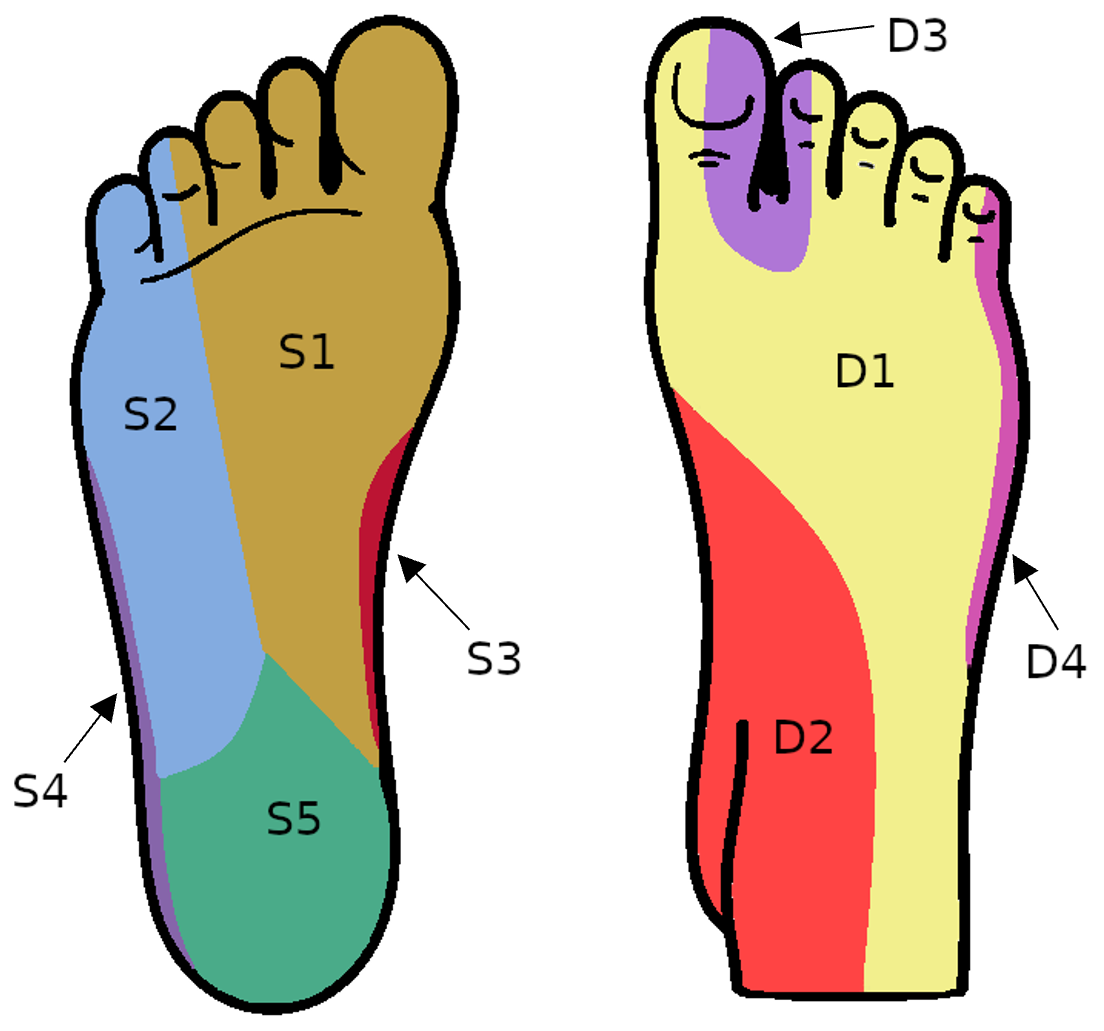
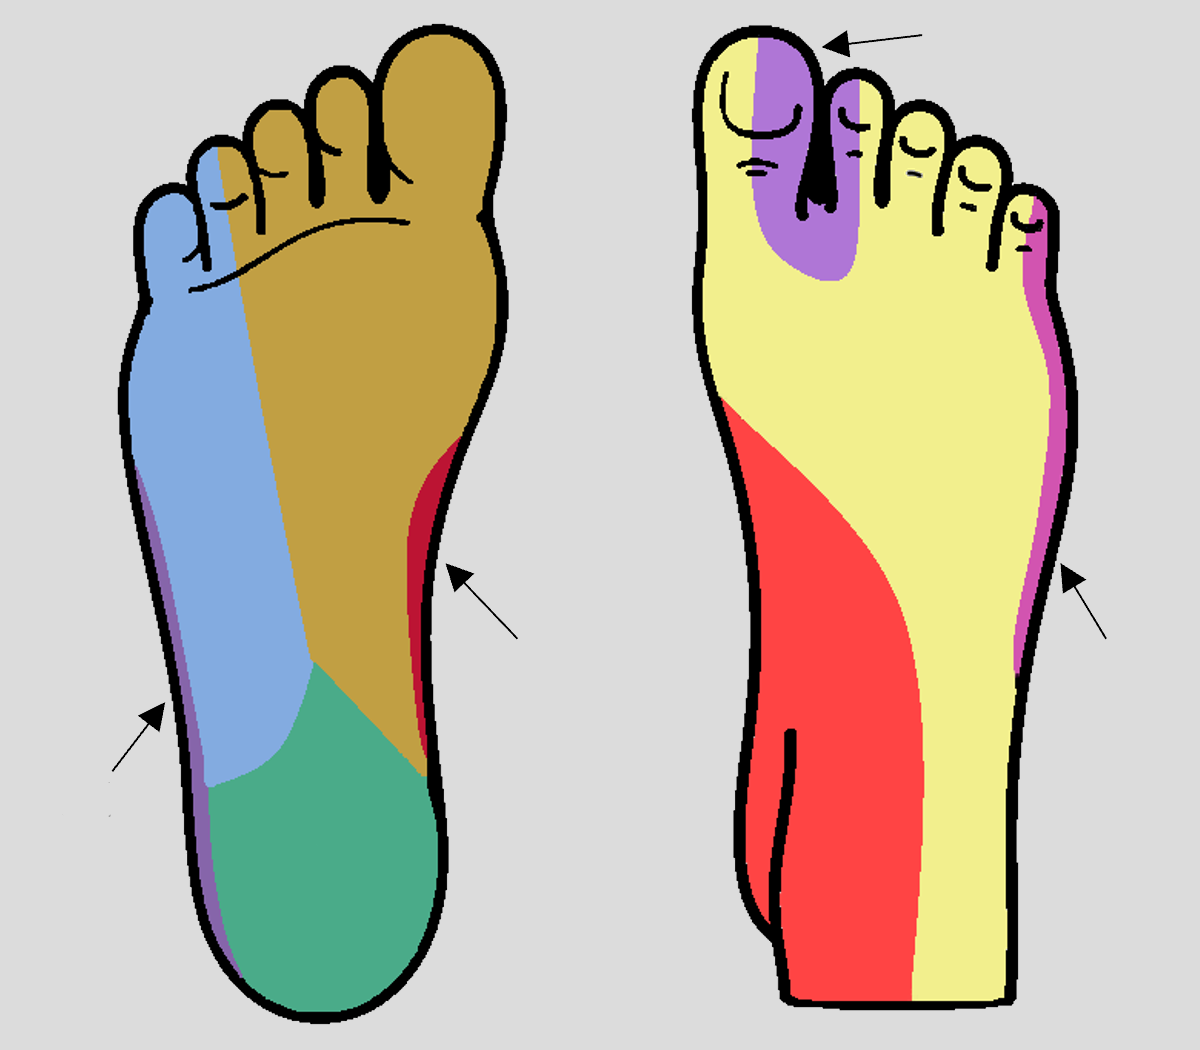
Aligned images for location_inputter.py and adjusted colors properly

diff --git a/widgets/location_inputter.py b/widgets/location_inputter.py
@@ -13,50 +13,53 @@ class LocationType(Enum):
     def image_name(self) -> str:
         if self == LocationType.FOOT:
             return "foot_dermatomes.png"
-        return "lower_leg_pictogram.png"
+        elif self == LocationType.LEG:
+            return "lower_leg_pictogram.png"
+        else:
+            raise ValueError(f"Invalid location type: {self}")
 
 
 class LocationInputter(tk.Canvas):
     FOOT_CHECKBOXES = {
-        "D1": {"x_rel": 0.786, "y_rel": 0.357, 'background': '#F1EF99'},
-        "D2": {"x_rel": 0.725, "y_rel": 0.710, 'background': '#EF5440'},
-        "D3": {"x_rel": 0.832, "y_rel": 0.035, 'background': '#FFFFFF'},
-        "D4": {"x_rel": 0.950, "y_rel": 0.632, 'background': '#FFFFFF'},
-        "S1": {"x_rel": 0.281, "y_rel": 0.340, 'background': '#BBA052'},
-        "S2": {"x_rel": 0.136, "y_rel": 0.398, 'background': '#8BAADB'},
-        "S3": {"x_rel": 0.444, "y_rel": 0.629, 'background': '#FFFFFF'},
-        "S4": {"x_rel": 0.045, "y_rel": 0.763, 'background': '#FFFFFF'},
-        "S5": {"x_rel": 0.259, "y_rel": 0.789, 'background': '#64A98B'}
+        "D1": {"x_rel": 0.760, "y_rel": 0.357, 'background': '#F2EF8D'},
+        "D2": {"x_rel": 0.705, "y_rel": 0.710, 'background': '#FF4444'},
+        "D3": {"x_rel": 0.823, "y_rel": 0.035, 'background': '#DCDCDC'},
+        "D4": {"x_rel": 0.940, "y_rel": 0.632, 'background': '#DCDCDC'},
+        "S1": {"x_rel": 0.281, "y_rel": 0.340, 'background': '#C19F43'},
+        "S2": {"x_rel": 0.155, "y_rel": 0.398, 'background': '#83ABE0'},
+        "S3": {"x_rel": 0.444, "y_rel": 0.629, 'background': '#DCDCDC'},
+        "S4": {"x_rel": 0.060, "y_rel": 0.763, 'background': '#DCDCDC'},
+        "S5": {"x_rel": 0.259, "y_rel": 0.789, 'background': '#4AAB89'}
     }
     LEG_CHECKBOXES = {
-        "Calf": {"x_rel": 0.20, "y_rel": 0.6, 'background': '#FFFFFF'},
-        "Shin": {"x_rel": 0.60, "y_rel": 0.6, 'background': '#FFFFFF'}
+        "Calf": {"x_rel": 0.32, "y_rel": 0.6, 'background': '#DCDCDC'},
+        "Shin": {"x_rel": 0.62, "y_rel": 0.6, 'background': '#DCDCDC'}
     }
     IMAGES_DIR = Path(__file__).parent.parent / 'images'
 
     def __init__(self, master, location_type: LocationType, location_vars: dict[str, tk.BooleanVar],
-                 scaling: float = 1.0):
+                 image_width: int = 600):
         super().__init__(master,
-                         highlightbackground='green', highlightthickness=2,
+                         # borderwidth=1, relief='solid'
                          )
         self.location_vars = location_vars
         self.style = ttk.Style()
-        # self.style.theme_use('clam')
 
-        # Select correct values based on type of inputter
+        # Select correct values based on the type of inputter
         checkbox_params = self.FOOT_CHECKBOXES if location_type == LocationType.FOOT else self.LEG_CHECKBOXES
         image_path = self.IMAGES_DIR / location_type.image_name
 
         # Load, scale, and display the image
-        self.image = Image.open(image_path)
-        scaled_width, scaled_height = int(self.image.width * scaling), int(self.image.height * scaling)
-        self.image = self.image.resize((scaled_width, scaled_height), Image.Resampling.LANCZOS)
+        image = Image.open(image_path)
+        scaling = image_width / image.width
+        scaled_height = round(scaling * image.height)
+        image = image.resize((image_width, scaled_height), Image.Resampling.LANCZOS)
 
-        self.photo = ImageTk.PhotoImage(self.image)
+        self.photo = ImageTk.PhotoImage(image)
         self.create_image(0, 0, image=self.photo, anchor="nw")
 
         # Set canvas size to match the image
-        self.config(width=self.image.width, height=self.image.height)
+        self.config(width=image.width, height=image.height)
 
         # Add all the Checkbuttons
         for name, params in checkbox_params.items():
@@ -64,10 +67,11 @@ class LocationInputter(tk.Canvas):
 
     def add_checkbutton(self, id, display_name, relx: float, rely: float, color: str):
         """Add a checkbutton at the specified coordinates
-        :param relx: The relative x position (0-1)
-        :param rely: The relative y position (0-1)
         :param id: The English name of the location (e.g. "Calf")
         :param display_name: The text that the checkbutton shows (e.g. "Calf" or "Schienbein")
+        :param relx: The relative x position (0-1)
+        :param rely: The relative y position (0-1)
+        :param color: The background color of the checkbutton
         """
         assert 0 <= relx <= 1
         assert 0 <= rely <= 1
@@ -88,10 +92,12 @@ class LocationInputter(tk.Canvas):
 if __name__ == "__main__":
     root = tk.Tk()
 
+    _ = lambda string: string
+
     location_vars = {loc: tk.BooleanVar(value=False) for loc in
                      ["D1", "D2", "D3", "D4", "S1", "S2", "S3", "S4", "S5", "Calf", "Shin", ]}
-    LocationInputter(root, LocationType.FOOT, location_vars, scaling=0.3).pack(side='left', padx=10, pady=10)
-    LocationInputter(root, LocationType.LEG, location_vars, scaling=0.3).pack(padx=10, pady=10)
+    LocationInputter(root, LocationType.FOOT, location_vars, image_width=400).pack(side='left', padx=10, pady=10)
+    LocationInputter(root, LocationType.LEG, location_vars, image_width=400).pack(padx=10, pady=10)
 
 
     def check_states():

diff --git a/widgets/evoked_sensations_frame.py b/widgets/evoked_sensations_frame.py
@@ -84,8 +84,8 @@ class _SingleSensationFrame(tk.Frame):
         location_label.grid(row=0, column=0, columnspan=2, padx=5, pady=(0, 5), sticky="w")
 
         # Make inputters for foot and leg
-        foot = LocationInputter(location_frame, LocationType.FOOT, self.location_vars, scaling=0.4)
-        leg = LocationInputter(location_frame, LocationType.LEG, self.location_vars, scaling=0.4)
+        foot = LocationInputter(location_frame, LocationType.FOOT, self.location_vars)
+        leg = LocationInputter(location_frame, LocationType.LEG, self.location_vars)
         foot.grid(row=1, column=0, padx=5, pady=5)
         leg.grid(row=1, column=1, padx=5, pady=5)
 
@@ -119,7 +119,7 @@ class EvokedSensationsFrame(tk.Frame):
         self.on_continue = on_continue
 
         # The canvas is just here to enable scrolling and only contains the main_frame
-        self.canvas = tk.Canvas(self)
+        self.canvas = tk.Canvas(self, highlightthickness=0)
         scrollbar = tk.Scrollbar(self, orient='vertical', command=self.canvas.yview)
 
         scrollbar.grid(row=0, column=1, sticky='ns')

diff --git a/styling/app_style.py b/styling/app_style.py
@@ -5,7 +5,7 @@ from tkinter import ttk, font
 
 
 class AppStyle(ttk.Style):
-    """Singleton class for style"""
+    """Class for style"""
 
     def __init__(self):
         super().__init__()
@@ -28,8 +28,5 @@ class AppStyle(ttk.Style):
 
         self.configure("Italic.TButton", font=(base_font, 14, 'italic'))
         self.configure("ErrorText.TLabel", font=(base_font, 14), foreground="red")
-        self.configure("SmallWarning.TButton", font=(base_font, 12), foreground="#EF6A6A"
-)
+        self.configure("SmallWarning.TButton", font=(base_font, 12), foreground="#EF6A6A")
         self.configure("EnabledStopButton.TButton", background="red", foreground="red")
-
-# app_style = AppStyle()

diff --git a/widgets/experimenter_window.py b/widgets/experimenter_window.py
@@ -46,7 +46,7 @@ class ExperimenterWindow(tk.Tk):
             frame.pack(padx=10, pady=10)
 
         # self.com_port_manager.open_port()  # todo ON_LAUNCH delete
-        # self.on_start_experiment()  # todo ON_LAUNCH delete
+        # self.on_start_experiment(StimulationOrder.from_file(Settings().get_stim_order_path()))  # todo ON_LAUNCH delete
 
     def on_port_opened(self):
         """What to do when the port is successfully opened."""
